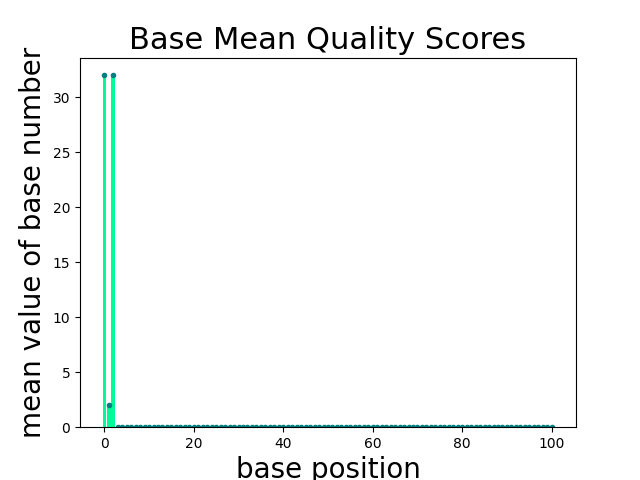
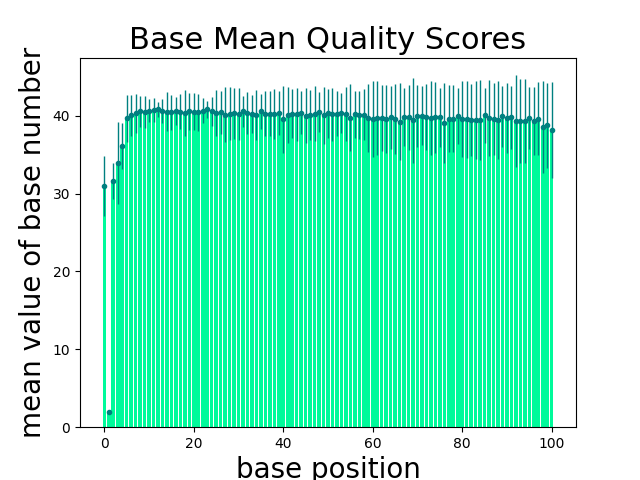
finished distribution plot... move onto big data

diff --git a/mean_quality_distrubution.py b/mean_quality_distrubution.py
@@ -3,6 +3,7 @@ import numpy as np
 
 convert=bioinfo.convert_phred
 
+################################################# functions ####################################################
 
 def get_args(): #defines all the independent variables
 	import argparse
@@ -25,11 +26,12 @@ def populate_array(file,array):
     
 	while True:
         
-		line=f.readline()
+		line=(f.readline()).strip()
 
 		if n%4==3: #if the file line is 3,7,11... i.e. the quality score line
-    
-			for position in range(len(array[0])): #for each charcter in the quality score line
+		
+			for position in range(args.read_length): #for each charcter in the quality score line
+		
 				array[position,current_record] = convert(line[position])
             
 			current_record += 1
@@ -64,7 +66,7 @@ def distribution(mean, stdev, print_to_terminal = False):
 	plt.ylabel('mean value of base number', size=20)
 	plt.title('Base Mean Quality Scores', size = 22)
 	plt.bar(x_data,y_data, color='mediumspringgreen')
-	plt.errorbar(x_data, y_data, yerr=stdev, fmt='.', color='teal', linewidth=2)
+	plt.errorbar(x_data, y_data, yerr=stdev, fmt='.', elinewidth=1,color='teal', linewidth=2)
 	plt.savefig('distribution_plots/{}.png'.format(args.plot_title))
 	if print_to_terminal == True:
 		plt.show()
